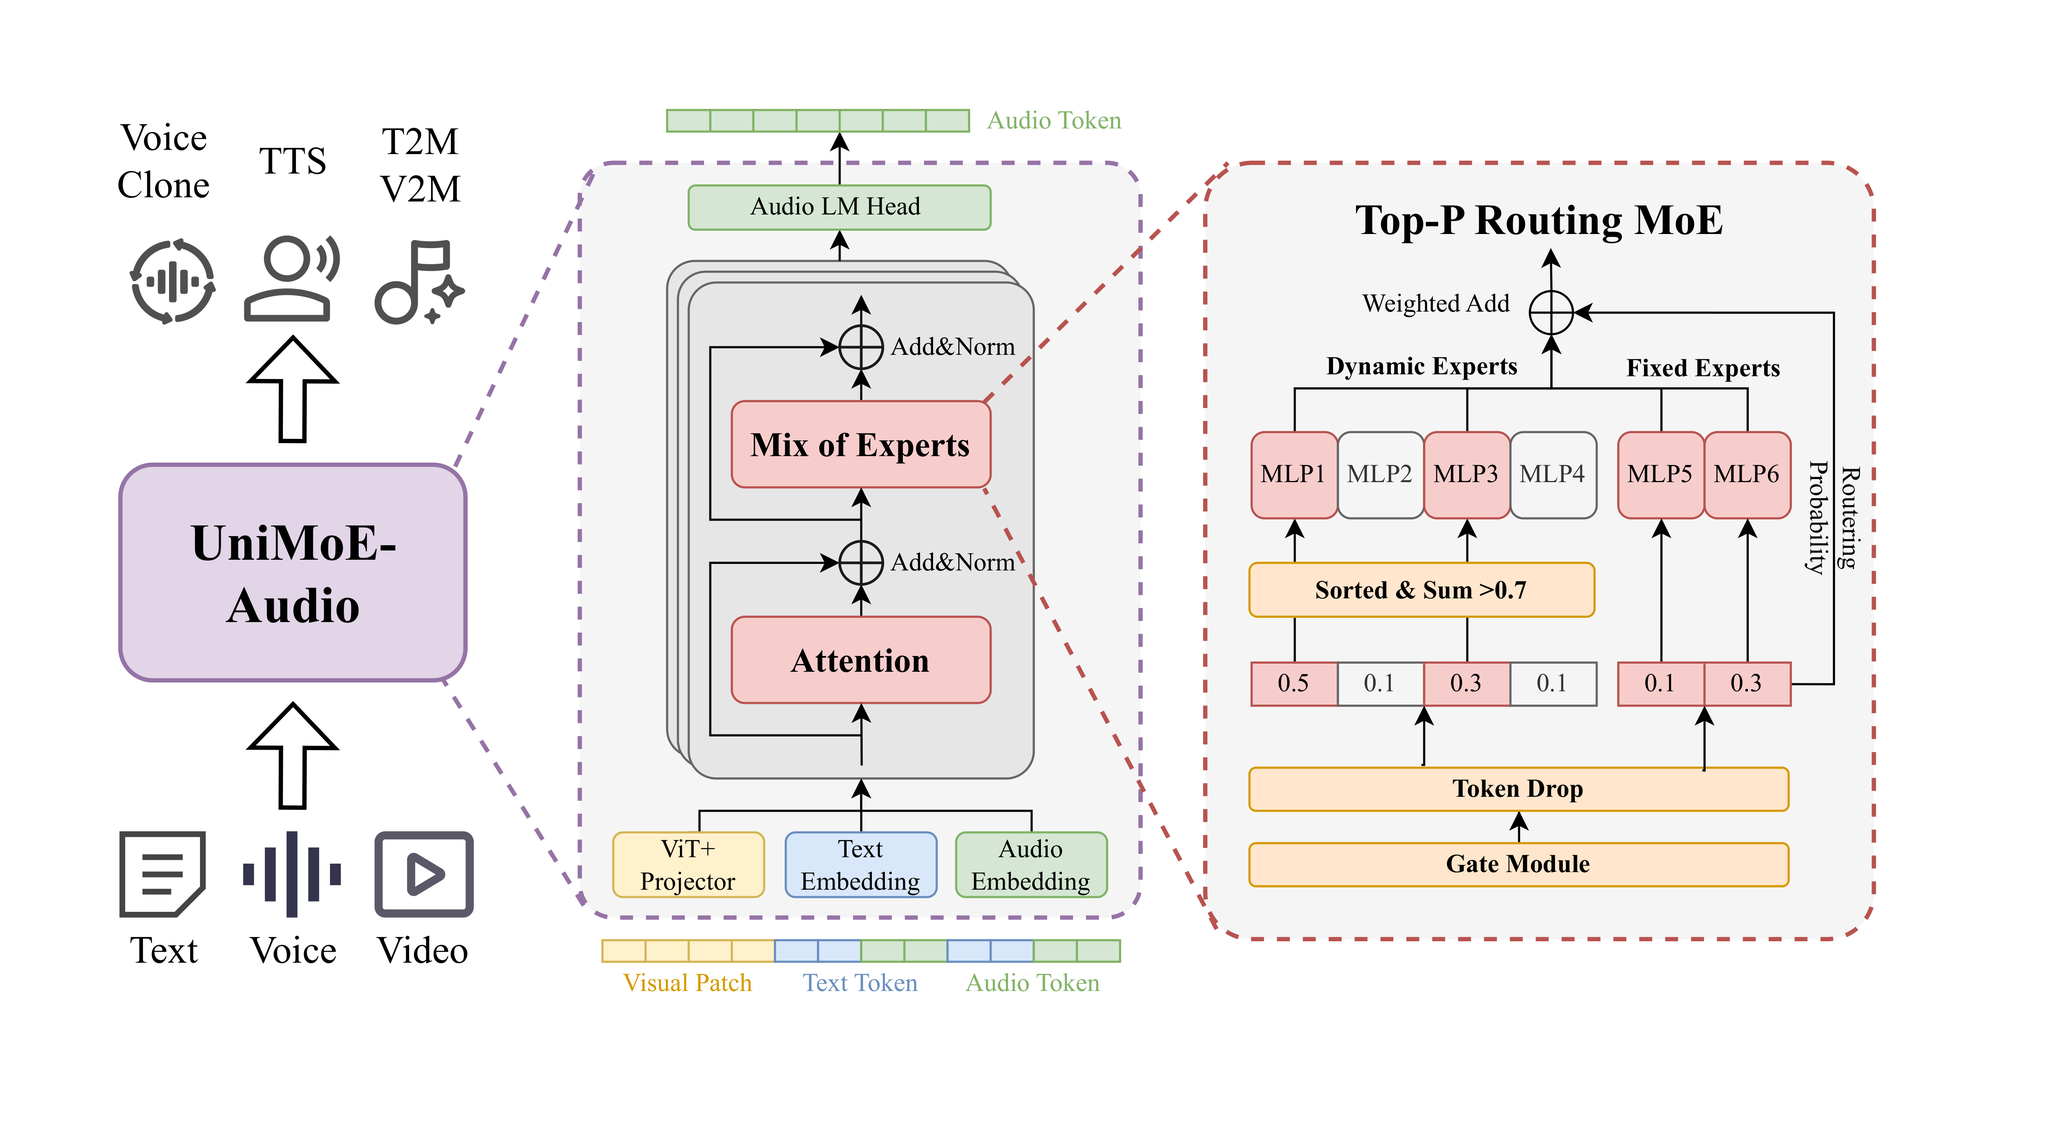
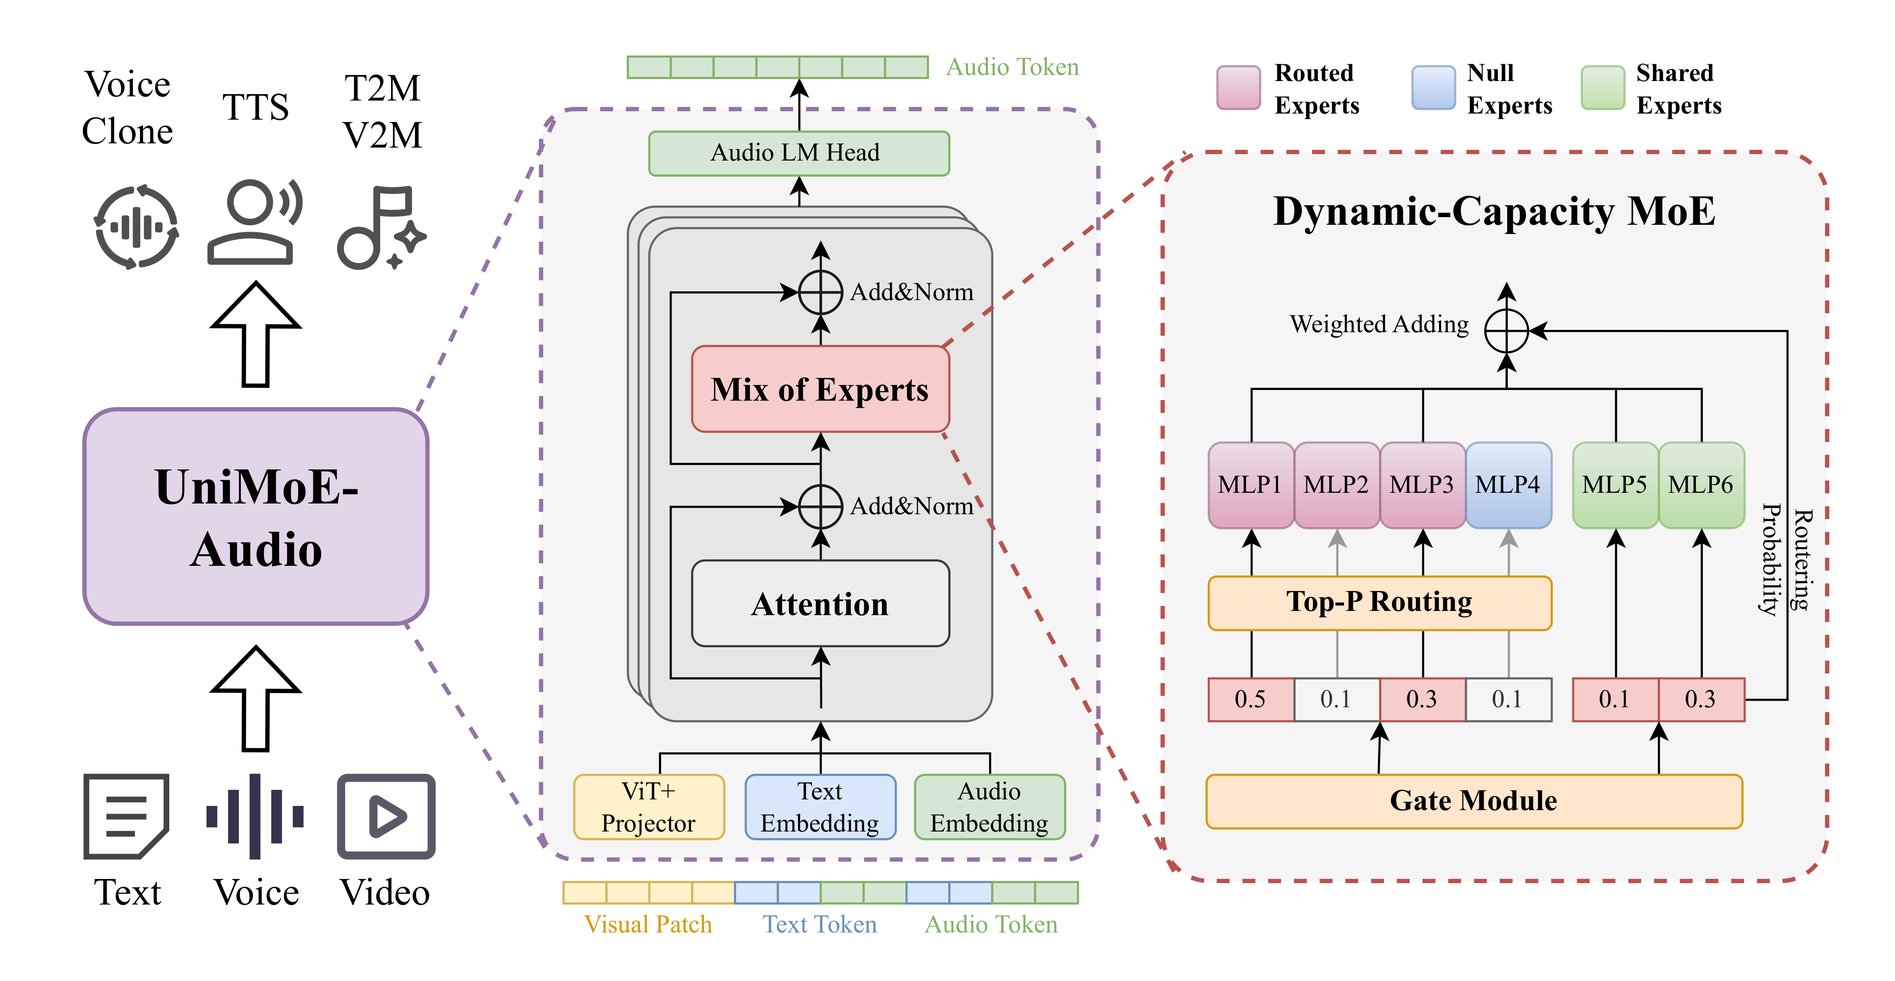
revise intro

diff --git a/introduction.html b/introduction.html
@@ -235,25 +235,46 @@
         <div class="header">
             <!-- <p>September 17, 2025  Announcement </p> -->
             <h1>Introduction to UniMoE-Audio</h1>
-            <p>Unified Speech and Music Generation with Dynamic-Capacity Mixture of Experts</p>
+            <p>A Unified Speech and Music Generation with Dynamic-Capacity Mixture of Experts</p>
         </div>
 
     <div class="blog-section">
         <h2 class="section-title">UniMoE-Audio</h2>
-        <p>
-            We propose <strong>UniMoE-Audio</strong>, a unified speech and music generation model based on a novel dynamic-capacity Mixture-of-Experts framework.
+        <!-- <p>
+            We propose <strong>UniMoE-Audio</strong>, a unified speech and music generation model based on a novel <strong>dynamic-capacity</strong> Mixture-of-Experts framework.
+            With this design, UniMoE-Audio achieves a seamless integration of speech and music generation, paving the way toward universal audio synthesis.
         </p>
         <br>
         <p>
-            By integrating a dynamic-capacity routing strategy for adaptive resource allocation and a hybrid expert design for functional decoupling, our architecture effectively mitigates <strong>the inherent task conflict</strong> between speech and music generation.
+            UniMoE-Audio introduces <strong>a dynamic-capacity routing mechanism</strong> using Top-P sampling for dynamic expert allocation, 
+            and a hybrid expert design that decouples domain-specific computation (dynamic experts) from universal features (shared experts).
+            To enable effective joint learning from imbalanced data, UniMoE-Audio introduces a three-stage training curriculum.
+            Therefore, UniMoE-Audio accepts a diverse set of conditional inputs, 
+            including <strong>voice cloning</strong>, <strong>text-to-speech (TTS)</strong>, <strong>text-to-music (T2M)</strong>, and <strong>video-to-music (V2M)</strong>, 
+            offering flexibility across a wide range of applications.
+            Extensive experiments show that UniMoE-Audio not only achieves state-of-the-art performance but also demonstrates superior synergistic learning.
+        </p>
+        <br> -->
+        <p>
+            <strong>UniMoE-Audio</strong> is a unified framework that seamlessly combines speech and music generation. 
+            Powered by a novel <strong>dynamic-capacity Mixture-of-Experts</strong> design, it adapts intelligently to input complexity, 
+            enabling high-fidelity voice and expressive music within a single model.
+        </p>
+        <br>
+        <p>
+            UniMoE-Audio introduces <strong>a dynamic-capacity routing mechanism</strong> based on Top-P sampling for adaptive expert allocation, 
+            together with a hybrid expert design that separates domain-specific computation (dynamic experts) from universal representations (shared experts). 
+            To address data imbalance and task conflicts, UniMoE-Audio adopts a structured three-stage training curriculum. 
+            From <strong>voice cloning</strong> and <strong>text-to-speech (TTS)</strong> to <strong>text-to-music (T2M)</strong> and <strong>video-to-music (V2M)</strong>, 
+            UniMoE-Audio supports diverse creative workflows. 
+            Extensive experiments confirm its state-of-the-art performance and superior cross-task synergy, paving the way toward <strong>universal audio generation</strong>.
         </p>
         <br>
 
-
-        <h3>
+        <!-- <h3>
             Challenges in Unifying Speech and Music Generation
-        </h3>
-        <p>The unification of speech and music generation faces :</p>
+        </h3> -->
+        <!-- <p>The unification of speech and music generation faces :</p>
          <div class="content-block">
             <p><strong>Two Major Obstacles:</strong></p>
             <ul style="margin-left: 2rem; margin-top: 1rem; font-size: 1.1rem;">
@@ -274,16 +295,37 @@
                     </ul>
                 </li>
             </ul>
+        </div> -->
+
+        <div class="media-container" id="fig1">
+            <div class="media-item">
+                <img src="img/abstract.png" alt="Performance of UniMoE-Audio" style="max-width: 100%; width: 1600px; height: auto; display: block; margin: 0 auto; border-radius: 8px; box-shadow: 0 4px 12px rgba(123, 179, 255, 0.15);">
+                <p style="font-size: 0.9em; color: #666; margin-top: 0.5rem;">
+                    Left: Our model overcomes the performance degradation of naive joint training, achieving synergistic gains. 
+                    <br>
+                    Right: It demonstrates competitive performance against leading models on comprehensive speech and music metrics.
+                </p>
+                <p><strong>Fig. 1</strong>Performance of UniMoE-Audio</p>
+            </div>
         </div>
-        
-        <h3>
-            Here are our work's novelty and contributions.
-        </h3>
+        <br>
+        <p>
+            On the left of <a href="#fig1">Fig. 1</a>, 
+            comparison against specialized baselines reveals the failure of naive joint
+            training, which causes a clear performance degradation on speech generation and more significant decline on music generation.
+            The root of this problem lies in the divergent objectives of speech and music tasks as well as severe data imbalances, 
+            which make naive joint training incapable of capturing their inherent complexity.
+        </p>
+        <br>
+        <p>  
+            In contrast, UniMoE-Audio yields synergistic gains across both tasks. 
+            On radar charts in <a href="#fig1">Fig. 1</a>, UniMoE-Audio is shown achieving competitive performance against leading models on a wide array of speech (a) and music (b) metrics.
+        </p>
         <br>
         <h3>
-            A novel dynamic-capacity MoE for mitigating task conflict.
+            A Novel Dynamic-capacity MoE for Mitigating Task Conflict
         </h3>
-        <div class="content-block">
+        <!-- <div class="content-block">
             <p><strong>Two key architectural optimization:</strong></p>
             <ul style="margin-left: 2rem; margin-top: 1rem; font-size: 1.1rem;">
                 <li><strong>A Dynamic-capacity Routing Strategy</strong>: &nbsp; Enabling <strong>more flexible</strong> expert combinations 
@@ -302,18 +344,39 @@
             <p style="margin-top: 1.5rem; font-weight: 600;">
                 Together, these advances form a powerful and efficient framework for high-quality, flexible audio generation across multiple modalities.
             </p>
-        </div>
-        The following figure shows the overall architecture of UniMoE-Audio.
+        </div> -->
+        <br>
+        <p>
+            To provide adaptive allocation of computational resources between simple and complex tasks, 
+            the model's architectural core is a Transformer enhanced with <strong>Dynamic-Capacity</strong> Mixture-of-Experts (MoE) layers.
+            The following <a href="#fig2">Fig. 2</a> shows the overall architecture of UniMoE-Audio.
+        </p>
         <div class="media-container">
             <div class="media-item">
-                <img src="img/AudioLLM_model-MoE.png" alt="UniMoE-Audio Structure" style="max-width: 90%; width: 800px; height: auto; display: block; margin: 0 auto; border-radius: 8px; box-shadow: 0 4px 12px rgba(123, 179, 255, 0.15);">
-                <p><strong>Fig. 1</strong>  UniMoE-Audio Structure</p>
+                <img src="img/AudioLLM_model-MoE.png" alt="UniMoE-Audio Structure" style="max-width: 90%; width: 1200px; height: auto; display: block; margin: 0 auto; border-radius: 8px; box-shadow: 0 4px 12px rgba(123, 179, 255, 0.15);">
+                <p style="font-size: 0.9em; color: #666; margin-top: 0.5rem;">
+                    Left: The UniMoE-Audio unified architecture for speech and music generation from multimodal conditions.
+                    <br>
+                    Right: The proposed Top-P routing strategy for dynamic expert allocation based on token complexity.
+                </p>
+                <p><strong>Fig. 2</strong>  UniMoE-Audio Structure</p>
             </div>
         </div>
     </div>
-
+    <p>
+        Crucially, we introduce <strong>a Top-P routing strategy</strong> that overcomes the limitations of conventional static Top-K routing. 
+        Instead of assigning a fixed number of experts to every token, 
+        our approach dynamically determines the number of experts based on the complexity of each token.
+        This ensures that simple tokens do not consume unnecessary resources, 
+        while complex tokens are granted sufficient processing power, resulting in improved overall efficiency and performance.
+    </p>
     <br>
-    <h3>
+    <p>
+        Moreover, we employ <strong>a three-stage training curriculum</strong> to enable effective joint learning from imbalanced data. This process—comprising independent specialist training, integration with warm-up, and synergistic joint training—successfully overcomes the challenges of data imbalance and task conflict. (Details can be found in the paper)
+        <!-- <a href="https://arxiv.org/abs/2310.17223">paper</a> -->
+    </p> 
+    <br>
+    <!-- <h3>
         A tightly coupled, three-stage training curriculum to address data imbalance.
     </h3>
     <div class="content-block">
@@ -326,19 +389,22 @@
             <li><strong>Synergistic Joint Training</strong>
                 finally trains the entire, model end-to-end on the full, curated balanced dataset, fostering effective knowledge transfer across domains.</li>
         </ul>
-    </div>
-    The figure below illustrates the training pipeline of UniMoE-Audio.
+    </div> -->
+    <!-- The figure below illustrates the training pipeline of UniMoE-Audio.
     <div class="media-container">
         <div class="media-item">
             <img src="img/AudioLLM_training_moe.png" alt="UniMoE-Audio Training Pipeline" style="max-width: 70%; width: 800px; height: auto; display: block; margin: 0 auto; border-radius: 8px; box-shadow: 0 4px 12px rgba(123, 179, 255, 0.15);">
             <p><strong>Fig. 2</strong>UniMoE-Audio Training Pipeline</p>
         </div>
-    </div>
+    </div> -->
 
     <div class = "blog-section">
-        <h2 class="section-title">Experiments</h2>
+        <h2 class="section-title">Experiment Results</h2>
         <p>
-            We conducted a systematic evaluation of our Uni-MoE-Audio model on a variety of music and speech generation tasks. The main results, presented in Table 1, 2 and 3,demonstrate that our proposed model achieves state-of-the-art (SOTA) or highly competitive results when compared against existing leading models. 
+            We evaluate UniMoE-Audio against state-of-the-art specialized models for speech and music generation. 
+            The results, summarized in Table 1, Table 2 and Table 3, demonstrate that
+            our single, unified model not only <strong> avoids the performance degradation </strong> typical of naive joint training 
+            but achieves competitive or even superior results in both domains.
         </p> 
         <style>
             .table-container {
@@ -407,6 +473,85 @@
                 background: #555;
             }
         </style>
+
+        <br>
+        <h3>Speech Synthesis</h3>
+        <br>
+        <p>
+            Speech Synthesis (TTS) converts text into natural and fluent speech, focusing on clarity, naturalness, and speaker characteristics.
+
+        </p>
+        <div class="table-container">
+            <table class="research-table">
+                <caption>Table 1: Performance on Speech Synthesis</caption>
+                <tr>
+                <th rowspan="2">Method</th>
+                <th colspan="3">SeedTTS-EN</th>
+                <th colspan="3">SeedTTS-ZH</th>
+                <th colspan="2">Librispeech</th>
+                <th colspan="2">AISHELL-3</th>
+                </tr>
+                <tr>
+                <th>WER↓</th><th>UTMOS↑</th><th>SIM↑</th>
+                <th>CER↓</th><th>UTMOS↑</th><th>SIM↑</th>
+                <th>WER↓</th><th>UTMOS↑</th>
+                <th>CER↓</th><th>UTMOS↑</th>
+                </tr>
+                <tr>
+                <td colspan="15" style="border-top: 2px solid #333; padding: 0; height: 2px;"></td>
+                </tr>
+                <tr>
+                <td>UniAudio</td>
+                <td>0.072</td><td>3.46</td><td>0.40</td>
+                <td>-</td><td>-</td><td>-</td>
+                <td>0.183</td><td>3.26</td>
+                <td>-</td><td>-</td>
+                </tr>
+                <tr>
+                <td>Mini-CPM-O-2.6</td>
+                <td>0.034</td><td>3.49</td><td>0.36</td>
+                <td>0.130</td><td>2.94</td><td>0.47</td>
+                <td>0.111</td><td>3.76</td>
+                <td>0.131</td><td>3.30</td>
+                </tr>
+                <tr>
+                <td>Qwen-Omni</td>
+                <td>0.021</td><td>4.16</td><td>-</td>
+                <td>0.016</td><td>3.28</td><td>-</td>
+                <td>0.076</td><td>4.19</td>
+                <td>0.025</td><td>3.38</td>
+                </tr>
+                <tr>
+                <td>Step-audio</td>
+                <td>0.022</td><td>3.84</td><td>0.52</td>
+                <td>0.010</td><td>3.23</td><td>0.62</td>
+                <td>0.050</td><td>4.37</td>
+                <td>0.027</td><td>3.69</td>
+                </tr>
+                <tr>
+                <td colspan="15" style="border-top: 2px solid #333; padding: 0; height: 2px;"></td>
+                </tr>
+                <tr>
+                <td><i>UniMoE-MoE</i></td>
+                <td><b>0.019</b></td><td><b>4.36</b></td><td><b>0.56</b></td>
+                <td><b>0.008</b></td><td><b>3.73</b></td><td><b>0.65</b></td>
+                <td><b>0.044</b></td><td><b>4.23</b></td>
+                <td><b>0.016</b></td><td><b>3.86</b></td>
+                </tr>
+            </table>
+        </div>  
+        <p>
+            Across multilingual benchmarks including SeedTTS, LibriSpeech, and AISHELL-3, UniMoE-MoE leads across all metrics, with WER as low as 0.019 and UTMOS up to 4.36 (3.86 for Chinese), outperforming UniAudio, Qwen-Omni, and others. This indicates superior speech clarity, naturalness, and speaker consistency.
+        </p> 
+        
+        
+        <br>
+        <h3>Text to Music Generation</h3>
+        <br>
+        <p>
+            Text-to-Music Generation (T2M) transforms text descriptions into music clips, evaluating the model's ability to capture melody, rhythm, and atmosphere.
+        </p>
+        <br>
         <!-- <div class="table-container">
             <table class="research-table">
             <caption>Table 1: Performance on Music & Text-to-Music Generation</caption>
@@ -528,7 +673,7 @@
         </div> -->
         <div class="table-container">
             <table class="research-table">
-                <caption>Table 1: Performance of Text-to-Music Generation</caption>
+                <caption>Table 2: Performance of Text-to-Music Generation</caption>
                 <tr>
                 <th rowspan="2">Dataset</th>
                 <th rowspan="2">Task</th>
@@ -618,10 +763,21 @@
                 </tr>
             </table>
         </div>
+        <p>
+            On both MusicCap and V2M-bench, UniMoE-MoE achieves the best performance across key metrics such as PC, PQ, and CE (e.g., PC=6.00, PQ=7.77, CE=7.34 on MusicCap), outperforming strong baselines. This shows its ability to generate music with clear melody, coherent rhythm, and high perceptual quality.
+        </p>
 
+
+        <br>
+        <h3>Video-Text to Music Generation</h3>
+        <br>
+        <p>
+            Video-to-Music Generation (VT2M) generates music aligned with video content, testing cross-modal alignment and emotional expression.
+
+        </p>
         <div class="table-container">
             <table class="research-table">
-                <caption>Table2: Performance of Video-Text-to-Music</caption>
+                <caption>Table 3: Performance of Video-Text-to-Music</caption>
                 <tr>
                 <th rowspan="2">Dataset</th>
                 <th rowspan="2">Task</th>
@@ -663,80 +819,11 @@
                 </tr>
             </table>
         </div>
-
-        <div class="table-container">
-            <table class="research-table">
-                <caption>Table 3: Performance on Speech Synthesis</caption>
-                <tr>
-                <th rowspan="2">Method</th>
-                <th colspan="3">SeedTTS-EN</th>
-                <th colspan="3">SeedTTS-ZH</th>
-                <th colspan="2">Librispeech</th>
-                <th colspan="2">AISHELL-3</th>
-                </tr>
-                <tr>
-                <th>WER↓</th><th>UTMOS↑</th><th>SIM↑</th>
-                <th>CER↓</th><th>UTMOS↑</th><th>SIM↑</th>
-                <th>WER↓</th><th>UTMOS↑</th>
-                <th>CER↓</th><th>UTMOS↑</th>
-                </tr>
-                <tr>
-                <td colspan="15" style="border-top: 2px solid #333; padding: 0; height: 2px;"></td>
-                </tr>
-                <tr>
-                <td>UniAudio</td>
-                <td>0.072</td><td>3.46</td><td>0.40</td>
-                <td>-</td><td>-</td><td>-</td>
-                <td>0.183</td><td>3.26</td>
-                <td>-</td><td>-</td>
-                </tr>
-                <tr>
-                <td>Mini-CPM-O-2.6</td>
-                <td>0.034</td><td>3.49</td><td>0.36</td>
-                <td>0.130</td><td>2.94</td><td>0.47</td>
-                <td>0.111</td><td>3.76</td>
-                <td>0.131</td><td>3.30</td>
-                </tr>
-                <tr>
-                <td>Qwen-Omni</td>
-                <td>0.021</td><td>4.16</td><td>-</td>
-                <td>0.016</td><td>3.28</td><td>-</td>
-                <td>0.076</td><td>4.19</td>
-                <td>0.025</td><td>3.38</td>
-                </tr>
-                <tr>
-                <td>Step-audio</td>
-                <td>0.022</td><td>3.84</td><td>0.52</td>
-                <td>0.010</td><td>3.23</td><td>0.62</td>
-                <td>0.050</td><td>4.37</td>
-                <td>0.027</td><td>3.69</td>
-                </tr>
-                <tr>
-                <td colspan="15" style="border-top: 2px solid #333; padding: 0; height: 2px;"></td>
-                </tr>
-                <tr>
-                <td><i>UniMoE-MoE</i></td>
-                <td><b>0.019</b></td><td><b>4.36</b></td><td><b>0.56</b></td>
-                <td><b>0.008</b></td><td><b>3.73</b></td><td><b>0.65</b></td>
-                <td><b>0.044</b></td><td><b>4.23</b></td>
-                <td><b>0.016</b></td><td><b>3.86</b></td>
-                </tr>
-            </table>
-        </div>
-
         <p>
-            The comparison between the input (Fig. 3a) and output (Fig. 3b) expert distributions shows a clear shift from nearly uniform usage across all experts to more specialized patterns. In the input, experts are invoked almost evenly at each layer, indicating no strong preference. However, in the output, certain experts dominate at specific depths: lower layers favor experts 1 and 2, middle layers rely more on experts 3-5, and higher layers increasingly use experts 8 and 9. This demonstrates that training encourages a division of labor among experts, where different layers specialize in leveraging particular experts rather than distributing usage uniformly.
+            On V2M-bench, UniMoE-MoE significantly outperforms AudioX, reaching PC=5.88, PQ=7.62, and CE=6.96, while remaining competitive on diversity metrics like FAD. This demonstrates stronger capability in aligning video content with contextually fitting music, highlighting its cross-modal generation strength.
         </p>
-        <div class="media-container">
-            <div class="media-item">
-                <img src="img/all_experts_input.png" alt="expert activation for input" style="max-width: 100%; width: 400px; height: auto; display: block; margin: 0 auto; border-radius: 8px; box-shadow: 0 4px 12px rgba(123, 179, 255, 0.15);">
-                <p><strong>Fig. 3a</strong>  UniMoE-Audio expert activation for input</p>
-            </div>
-            <div class="media-item">
-                <img src="img/all_experts_output.png" alt="expert activation for output" style="max-width: 100%; width: 400px; height: auto; display: block; margin: 0 auto; border-radius: 8px; box-shadow: 0 4px 12px rgba(123, 179, 255, 0.15);">
-                <p><strong>Fig. 3b</strong>  UniMoE-Audio expert activation for output</p>
-            </div>
-        </div>
+        <br>
+
     <div class="blog-section">
         <h2 class="section-title">Performance</h2>
         <h3 style="text-align: center;">

diff --git a/js/index.js b/js/index.js
@@ -19,7 +19,7 @@ root.innerHTML = `
   <!-- 中间标题区域 -->
   <section class="hero-section">
     <h1 class="main-title">UniMoE-Audio</h1>
-    <p class="subtitle">An Unified Speech and Music Generation with Dynamic-Capacity Mixture of Experts</p>
+    <p class="subtitle">A Unified Speech and Music Generation with Dynamic-Capacity Mixture of Experts</p>
   </section>
 
   <!-- 下方按钮区域 -->
